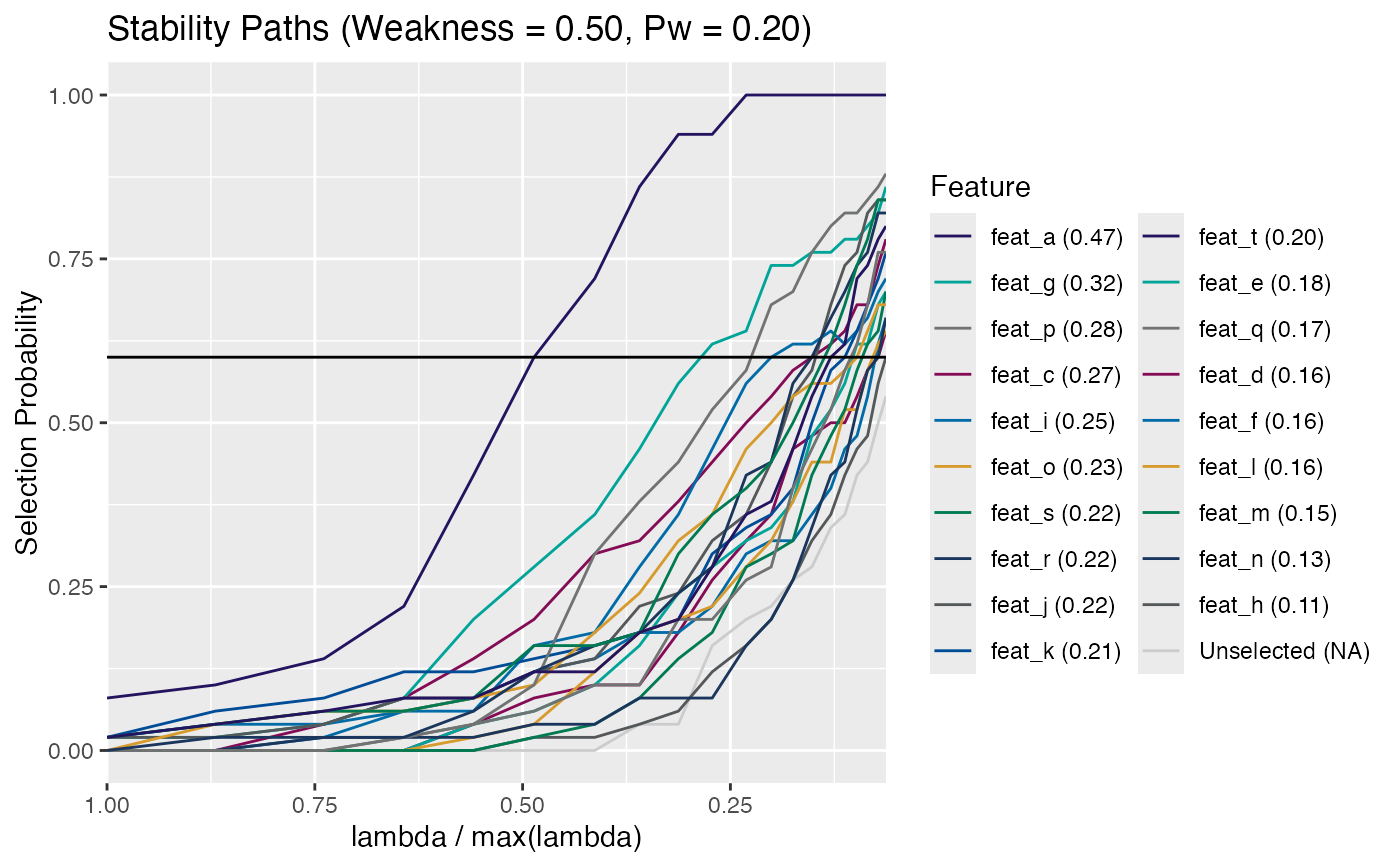
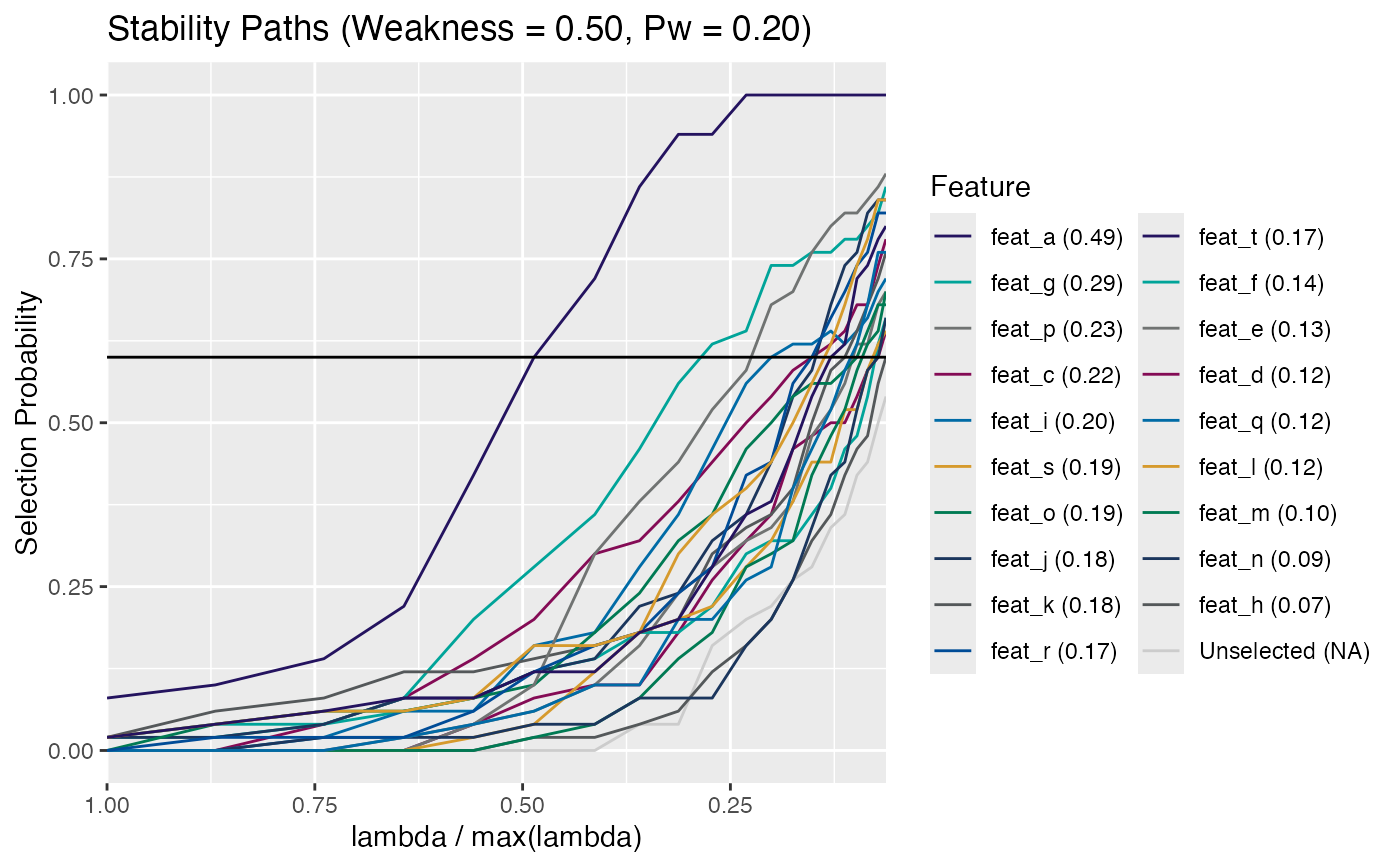
Built site for stabilityselectr@0.1.0: 2d478f8

diff --git a/reference/stability_selection.html b/reference/stability_selection.html
@@ -468,7 +468,7 @@ Methodology), <strong>72</strong>: 417-473. doi: 10.1111/j.1467-9868.2010.00740.
 <span class="r-in"><span><span class="va">y</span>           <span class="op">&lt;-</span> <span class="fu"><a href="https://rdrr.io/r/base/sample.html" class="external-link">sample</a></span><span class="op">(</span><span class="fl">1</span><span class="op">:</span><span class="fl">2</span>, <span class="va">n_samp</span>, replace <span class="op">=</span> <span class="cn">TRUE</span><span class="op">)</span></span></span>
 <span class="r-in"><span><span class="va">stab_sel</span>    <span class="op">&lt;-</span> <span class="fu">stability_selection</span><span class="op">(</span><span class="va">x</span>, <span class="va">y</span><span class="op">)</span></span></span>
 <span class="r-msg co"><span class="r-pr">#&gt;</span> <span style="color: #00BB00;">✓</span> Using kernel: <span style="color: #0000BB;">'binomial'</span> and <span style="color: #0000BB;">1</span> core (serial)</span>
-<span class="r-msg co"><span class="r-pr">#&gt;</span> <span style="color: #00BB00;">✓</span> Stablity path run time: <span style="color: #0000BB;">2.745</span>s</span>
+<span class="r-msg co"><span class="r-pr">#&gt;</span> <span style="color: #00BB00;">✓</span> Stablity path run time: <span style="color: #0000BB;">2.592</span>s</span>
 <span class="r-in"><span></span></span>
 <span class="r-in"><span><span class="co"># Cox</span></span></span>
 <span class="r-in"><span><span class="va">xcox</span> <span class="op">&lt;-</span> <span class="fu"><a href="https://stufield.github.io/wranglr/reference/feature_matrix.html" class="external-link">feature_matrix</a></span><span class="op">(</span><span class="fu">stabilityselectr</span><span class="fu">:::</span><span class="fu">log_rfu</span><span class="op">(</span><span class="va">simdata</span><span class="op">)</span><span class="op">)</span></span></span>
@@ -480,7 +480,7 @@ Methodology), <strong>72</strong>: 417-473. doi: 10.1111/j.1467-9868.2010.00740.
 <span class="r-in"><span><span class="va">ycox</span> <span class="op">&lt;-</span> <span class="fu"><a href="https://rdrr.io/r/base/data.matrix.html" class="external-link">data.matrix</a></span><span class="op">(</span><span class="fu">select</span><span class="op">(</span><span class="va">simdata</span>, <span class="va">time</span>, <span class="va">status</span><span class="op">)</span><span class="op">)</span></span></span>
 <span class="r-in"><span><span class="va">stab_sel_cox</span> <span class="op">&lt;-</span> <span class="fu">stability_selection</span><span class="op">(</span><span class="va">xcox</span>, <span class="va">ycox</span>, kernel <span class="op">=</span> <span class="st">"cox"</span>, r_seed <span class="op">=</span> <span class="fl">3</span><span class="op">)</span></span></span>
 <span class="r-msg co"><span class="r-pr">#&gt;</span> <span style="color: #00BB00;">✓</span> Using kernel: <span style="color: #0000BB;">'cox'</span> and <span style="color: #0000BB;">1</span> core (serial)</span>
-<span class="r-msg co"><span class="r-pr">#&gt;</span> <span style="color: #00BB00;">✓</span> Stablity path run time: <span style="color: #0000BB;">0.713</span>s</span>
+<span class="r-msg co"><span class="r-pr">#&gt;</span> <span style="color: #00BB00;">✓</span> Stablity path run time: <span style="color: #0000BB;">0.569</span>s</span>
 <span class="r-in"><span><span class="co"># Test for class `stab_sel`</span></span></span>
 <span class="r-in"><span><span class="fu">is_stab_sel</span><span class="op">(</span><span class="va">stab_sel</span><span class="op">)</span></span></span>
 <span class="r-out co"><span class="r-pr">#&gt;</span> [1] TRUE</span>
@@ -504,45 +504,45 @@ Methodology), <strong>72</strong>: 417-473. doi: 10.1111/j.1467-9868.2010.00740.
 <span class="r-out co"><span class="r-pr">#&gt;</span> <span style="color: #949494;"># A tibble: 20 × 4</span></span>
 <span class="r-out co"><span class="r-pr">#&gt;</span>    feature MaxSelectProb   AUC FDRbound</span>
 <span class="r-out co"><span class="r-pr">#&gt;</span>    <span style="color: #949494; font-style: italic;">&lt;chr&gt;</span>           <span style="color: #949494; font-style: italic;">&lt;dbl&gt;</span> <span style="color: #949494; font-style: italic;">&lt;dbl&gt;</span>    <span style="color: #949494; font-style: italic;">&lt;dbl&gt;</span></span>
-<span class="r-out co"><span class="r-pr">#&gt;</span> <span style="color: #BCBCBC;"> 1</span> f_xfwc          1     0.483   0.012<span style="text-decoration: underline;">5</span></span>
-<span class="r-out co"><span class="r-pr">#&gt;</span> <span style="color: #BCBCBC;"> 2</span> f_vemo          0.93  0.345   0.025 </span>
-<span class="r-out co"><span class="r-pr">#&gt;</span> <span style="color: #BCBCBC;"> 3</span> f_jpmk          0.9   0.285   0.037<span style="text-decoration: underline;">5</span></span>
-<span class="r-out co"><span class="r-pr">#&gt;</span> <span style="color: #BCBCBC;"> 4</span> f_mvky          0.89  0.279   0.05  </span>
-<span class="r-out co"><span class="r-pr">#&gt;</span> <span style="color: #BCBCBC;"> 5</span> f_qkhp          0.885 0.282   0.062<span style="text-decoration: underline;">5</span></span>
-<span class="r-out co"><span class="r-pr">#&gt;</span> <span style="color: #BCBCBC;"> 6</span> f_iefg          0.865 0.282   0.075 </span>
-<span class="r-out co"><span class="r-pr">#&gt;</span> <span style="color: #BCBCBC;"> 7</span> f_wyng          0.86  0.257   0.087<span style="text-decoration: underline;">5</span></span>
-<span class="r-out co"><span class="r-pr">#&gt;</span> <span style="color: #BCBCBC;"> 8</span> f_ytqs          0.83  0.235   0.1   </span>
-<span class="r-out co"><span class="r-pr">#&gt;</span> <span style="color: #BCBCBC;"> 9</span> f_jdip          0.83  0.254   0.113 </span>
-<span class="r-out co"><span class="r-pr">#&gt;</span> <span style="color: #BCBCBC;">10</span> f_dlxf          0.82  0.198   0.125 </span>
-<span class="r-out co"><span class="r-pr">#&gt;</span> <span style="color: #BCBCBC;">11</span> f_joxm          0.805 0.214   0.138 </span>
-<span class="r-out co"><span class="r-pr">#&gt;</span> <span style="color: #BCBCBC;">12</span> f_uzmr          0.805 0.203   0.15  </span>
-<span class="r-out co"><span class="r-pr">#&gt;</span> <span style="color: #BCBCBC;">13</span> f_pyab          0.8   0.167   0.163 </span>
-<span class="r-out co"><span class="r-pr">#&gt;</span> <span style="color: #BCBCBC;">14</span> f_jxrn          0.8   0.172   0.175 </span>
-<span class="r-out co"><span class="r-pr">#&gt;</span> <span style="color: #BCBCBC;">15</span> f_efpn          0.795 0.209   0.188 </span>
-<span class="r-out co"><span class="r-pr">#&gt;</span> <span style="color: #BCBCBC;">16</span> f_nwov          0.78  0.175   0.2   </span>
-<span class="r-out co"><span class="r-pr">#&gt;</span> <span style="color: #BCBCBC;">17</span> f_xdiy          0.765 0.229   0.213 </span>
-<span class="r-out co"><span class="r-pr">#&gt;</span> <span style="color: #BCBCBC;">18</span> f_gsac          0.755 0.182   0.225 </span>
-<span class="r-out co"><span class="r-pr">#&gt;</span> <span style="color: #BCBCBC;">19</span> f_fbxn          0.755 0.185   0.238 </span>
-<span class="r-out co"><span class="r-pr">#&gt;</span> <span style="color: #BCBCBC;">20</span> f_lgtk          0.735 0.168   0.25  </span>
+<span class="r-out co"><span class="r-pr">#&gt;</span> <span style="color: #BCBCBC;"> 1</span> f_xfwc          1     0.585   0.012<span style="text-decoration: underline;">5</span></span>
+<span class="r-out co"><span class="r-pr">#&gt;</span> <span style="color: #BCBCBC;"> 2</span> f_vemo          0.93  0.297   0.025 </span>
+<span class="r-out co"><span class="r-pr">#&gt;</span> <span style="color: #BCBCBC;"> 3</span> f_jpmk          0.9   0.259   0.037<span style="text-decoration: underline;">5</span></span>
+<span class="r-out co"><span class="r-pr">#&gt;</span> <span style="color: #BCBCBC;"> 4</span> f_mvky          0.89  0.264   0.05  </span>
+<span class="r-out co"><span class="r-pr">#&gt;</span> <span style="color: #BCBCBC;"> 5</span> f_qkhp          0.885 0.226   0.062<span style="text-decoration: underline;">5</span></span>
+<span class="r-out co"><span class="r-pr">#&gt;</span> <span style="color: #BCBCBC;"> 6</span> f_iefg          0.865 0.232   0.075 </span>
+<span class="r-out co"><span class="r-pr">#&gt;</span> <span style="color: #BCBCBC;"> 7</span> f_wyng          0.86  0.218   0.087<span style="text-decoration: underline;">5</span></span>
+<span class="r-out co"><span class="r-pr">#&gt;</span> <span style="color: #BCBCBC;"> 8</span> f_ytqs          0.83  0.203   0.1   </span>
+<span class="r-out co"><span class="r-pr">#&gt;</span> <span style="color: #BCBCBC;"> 9</span> f_jdip          0.83  0.207   0.113 </span>
+<span class="r-out co"><span class="r-pr">#&gt;</span> <span style="color: #BCBCBC;">10</span> f_dlxf          0.82  0.161   0.125 </span>
+<span class="r-out co"><span class="r-pr">#&gt;</span> <span style="color: #BCBCBC;">11</span> f_joxm          0.805 0.173   0.138 </span>
+<span class="r-out co"><span class="r-pr">#&gt;</span> <span style="color: #BCBCBC;">12</span> f_uzmr          0.805 0.153   0.15  </span>
+<span class="r-out co"><span class="r-pr">#&gt;</span> <span style="color: #BCBCBC;">13</span> f_pyab          0.8   0.117   0.163 </span>
+<span class="r-out co"><span class="r-pr">#&gt;</span> <span style="color: #BCBCBC;">14</span> f_jxrn          0.8   0.122   0.175 </span>
+<span class="r-out co"><span class="r-pr">#&gt;</span> <span style="color: #BCBCBC;">15</span> f_efpn          0.795 0.160   0.188 </span>
+<span class="r-out co"><span class="r-pr">#&gt;</span> <span style="color: #BCBCBC;">16</span> f_nwov          0.78  0.126   0.2   </span>
+<span class="r-out co"><span class="r-pr">#&gt;</span> <span style="color: #BCBCBC;">17</span> f_xdiy          0.765 0.186   0.213 </span>
+<span class="r-out co"><span class="r-pr">#&gt;</span> <span style="color: #BCBCBC;">18</span> f_gsac          0.755 0.134   0.225 </span>
+<span class="r-out co"><span class="r-pr">#&gt;</span> <span style="color: #BCBCBC;">19</span> f_fbxn          0.755 0.138   0.238 </span>
+<span class="r-out co"><span class="r-pr">#&gt;</span> <span style="color: #BCBCBC;">20</span> f_lgtk          0.735 0.122   0.25  </span>
 <span class="r-in"><span></span></span>
 <span class="r-in"><span><span class="fu"><a href="https://rdrr.io/r/base/summary.html" class="external-link">summary</a></span><span class="op">(</span><span class="va">stab_sel</span>, thresh <span class="op">=</span> <span class="fl">0.8</span>, add_features <span class="op">=</span> <span class="st">"feat_c"</span><span class="op">)</span>   <span class="co"># force feat_c into table</span></span></span>
 <span class="r-out co"><span class="r-pr">#&gt;</span> <span style="color: #949494;"># A tibble: 14 × 4</span></span>
 <span class="r-out co"><span class="r-pr">#&gt;</span>    feature MaxSelectProb   AUC FDRbound</span>
 <span class="r-out co"><span class="r-pr">#&gt;</span>    <span style="color: #949494; font-style: italic;">&lt;chr&gt;</span>           <span style="color: #949494; font-style: italic;">&lt;dbl&gt;</span> <span style="color: #949494; font-style: italic;">&lt;dbl&gt;</span>    <span style="color: #949494; font-style: italic;">&lt;dbl&gt;</span></span>
-<span class="r-out co"><span class="r-pr">#&gt;</span> <span style="color: #BCBCBC;"> 1</span> f_xfwc          1     0.483  0.004<span style="text-decoration: underline;">17</span></span>
-<span class="r-out co"><span class="r-pr">#&gt;</span> <span style="color: #BCBCBC;"> 2</span> f_vemo          0.93  0.345  0.008<span style="text-decoration: underline;">33</span></span>
-<span class="r-out co"><span class="r-pr">#&gt;</span> <span style="color: #BCBCBC;"> 3</span> f_jpmk          0.9   0.285  0.012<span style="text-decoration: underline;">5</span> </span>
-<span class="r-out co"><span class="r-pr">#&gt;</span> <span style="color: #BCBCBC;"> 4</span> f_mvky          0.89  0.279  0.016<span style="text-decoration: underline;">7</span> </span>
-<span class="r-out co"><span class="r-pr">#&gt;</span> <span style="color: #BCBCBC;"> 5</span> f_qkhp          0.885 0.282  0.020<span style="text-decoration: underline;">8</span> </span>
-<span class="r-out co"><span class="r-pr">#&gt;</span> <span style="color: #BCBCBC;"> 6</span> f_iefg          0.865 0.282  0.025  </span>
-<span class="r-out co"><span class="r-pr">#&gt;</span> <span style="color: #BCBCBC;"> 7</span> f_wyng          0.86  0.257  0.029<span style="text-decoration: underline;">2</span> </span>
-<span class="r-out co"><span class="r-pr">#&gt;</span> <span style="color: #BCBCBC;"> 8</span> f_ytqs          0.83  0.235  0.033<span style="text-decoration: underline;">3</span> </span>
-<span class="r-out co"><span class="r-pr">#&gt;</span> <span style="color: #BCBCBC;"> 9</span> f_jdip          0.83  0.254  0.037<span style="text-decoration: underline;">5</span> </span>
-<span class="r-out co"><span class="r-pr">#&gt;</span> <span style="color: #BCBCBC;">10</span> f_dlxf          0.82  0.198  0.041<span style="text-decoration: underline;">7</span> </span>
-<span class="r-out co"><span class="r-pr">#&gt;</span> <span style="color: #BCBCBC;">11</span> f_joxm          0.805 0.214  0.045<span style="text-decoration: underline;">8</span> </span>
-<span class="r-out co"><span class="r-pr">#&gt;</span> <span style="color: #BCBCBC;">12</span> f_uzmr          0.805 0.203  0.05   </span>
-<span class="r-out co"><span class="r-pr">#&gt;</span> <span style="color: #BCBCBC;">13</span> f_pyab          0.8   0.167  0.054<span style="text-decoration: underline;">2</span> </span>
-<span class="r-out co"><span class="r-pr">#&gt;</span> <span style="color: #BCBCBC;">14</span> f_jxrn          0.8   0.172  0.058<span style="text-decoration: underline;">3</span> </span>
+<span class="r-out co"><span class="r-pr">#&gt;</span> <span style="color: #BCBCBC;"> 1</span> f_xfwc          1     0.585  0.004<span style="text-decoration: underline;">17</span></span>
+<span class="r-out co"><span class="r-pr">#&gt;</span> <span style="color: #BCBCBC;"> 2</span> f_vemo          0.93  0.297  0.008<span style="text-decoration: underline;">33</span></span>
+<span class="r-out co"><span class="r-pr">#&gt;</span> <span style="color: #BCBCBC;"> 3</span> f_jpmk          0.9   0.259  0.012<span style="text-decoration: underline;">5</span> </span>
+<span class="r-out co"><span class="r-pr">#&gt;</span> <span style="color: #BCBCBC;"> 4</span> f_mvky          0.89  0.264  0.016<span style="text-decoration: underline;">7</span> </span>
+<span class="r-out co"><span class="r-pr">#&gt;</span> <span style="color: #BCBCBC;"> 5</span> f_qkhp          0.885 0.226  0.020<span style="text-decoration: underline;">8</span> </span>
+<span class="r-out co"><span class="r-pr">#&gt;</span> <span style="color: #BCBCBC;"> 6</span> f_iefg          0.865 0.232  0.025  </span>
+<span class="r-out co"><span class="r-pr">#&gt;</span> <span style="color: #BCBCBC;"> 7</span> f_wyng          0.86  0.218  0.029<span style="text-decoration: underline;">2</span> </span>
+<span class="r-out co"><span class="r-pr">#&gt;</span> <span style="color: #BCBCBC;"> 8</span> f_ytqs          0.83  0.203  0.033<span style="text-decoration: underline;">3</span> </span>
+<span class="r-out co"><span class="r-pr">#&gt;</span> <span style="color: #BCBCBC;"> 9</span> f_jdip          0.83  0.207  0.037<span style="text-decoration: underline;">5</span> </span>
+<span class="r-out co"><span class="r-pr">#&gt;</span> <span style="color: #BCBCBC;">10</span> f_dlxf          0.82  0.161  0.041<span style="text-decoration: underline;">7</span> </span>
+<span class="r-out co"><span class="r-pr">#&gt;</span> <span style="color: #BCBCBC;">11</span> f_joxm          0.805 0.173  0.045<span style="text-decoration: underline;">8</span> </span>
+<span class="r-out co"><span class="r-pr">#&gt;</span> <span style="color: #BCBCBC;">12</span> f_uzmr          0.805 0.153  0.05   </span>
+<span class="r-out co"><span class="r-pr">#&gt;</span> <span style="color: #BCBCBC;">13</span> f_pyab          0.8   0.117  0.054<span style="text-decoration: underline;">2</span> </span>
+<span class="r-out co"><span class="r-pr">#&gt;</span> <span style="color: #BCBCBC;">14</span> f_jxrn          0.8   0.122  0.058<span style="text-decoration: underline;">3</span> </span>
 <span class="r-in"><span></span></span>
 <span class="r-in"><span><span class="co"># S3 plot method</span></span></span>
 <span class="r-in"><span><span class="fu"><a href="https://rdrr.io/r/graphics/plot.default.html" class="external-link">plot</a></span><span class="op">(</span><span class="va">stab_sel</span>, thresh <span class="op">=</span> <span class="fl">0.8</span><span class="op">)</span></span></span>

diff --git a/reference/calc_emp_fdr.html b/reference/calc_emp_fdr.html
@@ -165,8 +165,8 @@ of the <code>n</code> class scrambled permutations, i.e. the null.</p></li>
 <span class="r-in"><span><span class="va">ss</span> <span class="op">&lt;-</span> <span class="fu"><a href="stability_selection.html">stability_selection</a></span><span class="op">(</span><span class="va">x</span>, <span class="va">y</span>, n_iter <span class="op">=</span> <span class="fl">25</span>, n_perm <span class="op">=</span> <span class="fl">50</span>,</span></span>
 <span class="r-in"><span>                          r_seed <span class="op">=</span> <span class="fl">101</span>, parallel <span class="op">=</span> <span class="cn">TRUE</span><span class="op">)</span></span></span>
 <span class="r-msg co"><span class="r-pr">#&gt;</span> <span style="color: #00BB00;">✓</span> Using kernel: <span style="color: #0000BB;">'binomial'</span> and <span style="color: #0000BB;">1</span> core (serial)</span>
-<span class="r-msg co"><span class="r-pr">#&gt;</span> <span style="color: #00BB00;">✓</span> Stablity path run time: <span style="color: #0000BB;">0.116</span>s</span>
-<span class="r-msg co"><span class="r-pr">#&gt;</span> <span style="color: #00BB00;">✓</span> Perm path run time: <span style="color: #0000BB;">4.347</span>s</span>
+<span class="r-msg co"><span class="r-pr">#&gt;</span> <span style="color: #00BB00;">✓</span> Stablity path run time: <span style="color: #0000BB;">0.087</span>s</span>
+<span class="r-msg co"><span class="r-pr">#&gt;</span> <span style="color: #00BB00;">✓</span> Perm path run time: <span style="color: #0000BB;">2.723</span>s</span>
 <span class="r-in"><span></span></span>
 <span class="r-in"><span><span class="fu">calc_emp_fdr</span><span class="op">(</span><span class="va">ss</span>, <span class="fu"><a href="https://rdrr.io/r/base/seq.html" class="external-link">seq</a></span><span class="op">(</span><span class="fl">0.5</span>, <span class="fl">0.9</span>, <span class="fl">0.1</span><span class="op">)</span><span class="op">)</span></span></span>
 <span class="r-out co"><span class="r-pr">#&gt;</span> thresh_0.5 thresh_0.6 thresh_0.7 thresh_0.8 thresh_0.9 </span>

diff --git a/articles/stabilityselectr.html b/articles/stabilityselectr.html
@@ -106,7 +106,7 @@ below.</p>
 <span><span class="va">y</span>           <span class="op">&lt;-</span> <span class="fu"><a href="https://rdrr.io/r/base/sample.html" class="external-link">sample</a></span><span class="op">(</span><span class="fl">1</span><span class="op">:</span><span class="fl">2</span>, <span class="va">n_samples</span>, replace <span class="op">=</span> <span class="cn">TRUE</span><span class="op">)</span></span>
 <span><span class="va">stab_sel</span>    <span class="op">&lt;-</span> <span class="fu"><a href="../reference/stability_selection.html">stability_selection</a></span><span class="op">(</span><span class="va">x</span>, <span class="va">y</span>, <span class="st">"binomial"</span>, n_iter <span class="op">=</span> <span class="fl">500L</span><span class="op">)</span></span>
 <span><span class="co">#&gt; ✓ Using kernel: 'binomial' and 1 core (serial)</span></span>
-<span><span class="co">#&gt; ✓ Stablity path run time: 2.368s</span></span>
+<span><span class="co">#&gt; ✓ Stablity path run time: 1.259s</span></span>
 <span><span class="fu"><a href="../reference/stability_selection.html">is_stab_sel</a></span><span class="op">(</span><span class="va">stab_sel</span><span class="op">)</span></span>
 <span><span class="co">#&gt; [1] TRUE</span></span>
 <span><span class="va">stab_sel</span></span>

diff --git a/reference/get_stable_features.html b/reference/get_stable_features.html
@@ -119,7 +119,7 @@ user a control mechanism for the output behavior.</p>
 <span class="r-in"><span></span></span>
 <span class="r-in"><span><span class="va">stab_sel</span> <span class="op">&lt;-</span> <span class="fu"><a href="stability_selection.html">stability_selection</a></span><span class="op">(</span><span class="va">x</span>, <span class="va">y</span>, r_seed <span class="op">=</span> <span class="fl">101</span><span class="op">)</span></span></span>
 <span class="r-msg co"><span class="r-pr">#&gt;</span> <span style="color: #00BB00;">✓</span> Using kernel: <span style="color: #0000BB;">'binomial'</span> and <span style="color: #0000BB;">1</span> core (serial)</span>
-<span class="r-msg co"><span class="r-pr">#&gt;</span> <span style="color: #00BB00;">✓</span> Stablity path run time: <span style="color: #0000BB;">0.514</span>s</span>
+<span class="r-msg co"><span class="r-pr">#&gt;</span> <span style="color: #00BB00;">✓</span> Stablity path run time: <span style="color: #0000BB;">0.517</span>s</span>
 <span class="r-in"><span></span></span>
 <span class="r-in"><span><span class="co"># Stable features at `thresh =`</span></span></span>
 <span class="r-in"><span><span class="fu">get_stable_features</span><span class="op">(</span><span class="va">stab_sel</span>, <span class="fl">0.75</span><span class="op">)</span></span></span>

diff --git a/reference/stability_selection.md b/reference/stability_selection.md
@@ -406,7 +406,7 @@ colnames(x) <- replicate(n_feat, paste0("f_", fn()))
 y           <- sample(1:2, n_samp, replace = TRUE)
 stab_sel    <- stability_selection(x, y)
 #> ✓ Using kernel: 'binomial' and 1 core (serial)
-#> ✓ Stablity path run time: 2.745s
+#> ✓ Stablity path run time: 2.592s
 
 # Cox
 xcox <- feature_matrix(stabilityselectr:::log_rfu(simdata))
@@ -418,7 +418,7 @@ xcox <- feature_matrix(stabilityselectr:::log_rfu(simdata))
 ycox <- data.matrix(select(simdata, time, status))
 stab_sel_cox <- stability_selection(xcox, ycox, kernel = "cox", r_seed = 3)
 #> ✓ Using kernel: 'cox' and 1 core (serial)
-#> ✓ Stablity path run time: 0.713s
+#> ✓ Stablity path run time: 0.569s
 # Test for class `stab_sel`
 is_stab_sel(stab_sel)
 #> [1] TRUE
@@ -442,45 +442,45 @@ summary(stab_sel, thresh = 0.6)
 #> # A tibble: 20 × 4
 #>    feature MaxSelectProb   AUC FDRbound
 #>    <chr>           <dbl> <dbl>    <dbl>
-#>  1 f_xfwc          1     0.483   0.0125
-#>  2 f_vemo          0.93  0.345   0.025 
-#>  3 f_jpmk          0.9   0.285   0.0375
-#>  4 f_mvky          0.89  0.279   0.05  
-#>  5 f_qkhp          0.885 0.282   0.0625
-#>  6 f_iefg          0.865 0.282   0.075 
-#>  7 f_wyng          0.86  0.257   0.0875
-#>  8 f_ytqs          0.83  0.235   0.1   
-#>  9 f_jdip          0.83  0.254   0.113 
-#> 10 f_dlxf          0.82  0.198   0.125 
-#> 11 f_joxm          0.805 0.214   0.138 
-#> 12 f_uzmr          0.805 0.203   0.15  
-#> 13 f_pyab          0.8   0.167   0.163 
-#> 14 f_jxrn          0.8   0.172   0.175 
-#> 15 f_efpn          0.795 0.209   0.188 
-#> 16 f_nwov          0.78  0.175   0.2   
-#> 17 f_xdiy          0.765 0.229   0.213 
-#> 18 f_gsac          0.755 0.182   0.225 
-#> 19 f_fbxn          0.755 0.185   0.238 
-#> 20 f_lgtk          0.735 0.168   0.25  
+#>  1 f_xfwc          1     0.585   0.0125
+#>  2 f_vemo          0.93  0.297   0.025 
+#>  3 f_jpmk          0.9   0.259   0.0375
+#>  4 f_mvky          0.89  0.264   0.05  
+#>  5 f_qkhp          0.885 0.226   0.0625
+#>  6 f_iefg          0.865 0.232   0.075 
+#>  7 f_wyng          0.86  0.218   0.0875
+#>  8 f_ytqs          0.83  0.203   0.1   
+#>  9 f_jdip          0.83  0.207   0.113 
+#> 10 f_dlxf          0.82  0.161   0.125 
+#> 11 f_joxm          0.805 0.173   0.138 
+#> 12 f_uzmr          0.805 0.153   0.15  
+#> 13 f_pyab          0.8   0.117   0.163 
+#> 14 f_jxrn          0.8   0.122   0.175 
+#> 15 f_efpn          0.795 0.160   0.188 
+#> 16 f_nwov          0.78  0.126   0.2   
+#> 17 f_xdiy          0.765 0.186   0.213 
+#> 18 f_gsac          0.755 0.134   0.225 
+#> 19 f_fbxn          0.755 0.138   0.238 
+#> 20 f_lgtk          0.735 0.122   0.25  
 
 summary(stab_sel, thresh = 0.8, add_features = "feat_c")   # force feat_c into table
 #> # A tibble: 14 × 4
 #>    feature MaxSelectProb   AUC FDRbound
 #>    <chr>           <dbl> <dbl>    <dbl>
-#>  1 f_xfwc          1     0.483  0.00417
-#>  2 f_vemo          0.93  0.345  0.00833
-#>  3 f_jpmk          0.9   0.285  0.0125 
-#>  4 f_mvky          0.89  0.279  0.0167 
-#>  5 f_qkhp          0.885 0.282  0.0208 
-#>  6 f_iefg          0.865 0.282  0.025  
-#>  7 f_wyng          0.86  0.257  0.0292 
-#>  8 f_ytqs          0.83  0.235  0.0333 
-#>  9 f_jdip          0.83  0.254  0.0375 
-#> 10 f_dlxf          0.82  0.198  0.0417 
-#> 11 f_joxm          0.805 0.214  0.0458 
-#> 12 f_uzmr          0.805 0.203  0.05   
-#> 13 f_pyab          0.8   0.167  0.0542 
-#> 14 f_jxrn          0.8   0.172  0.0583 
+#>  1 f_xfwc          1     0.585  0.00417
+#>  2 f_vemo          0.93  0.297  0.00833
+#>  3 f_jpmk          0.9   0.259  0.0125 
+#>  4 f_mvky          0.89  0.264  0.0167 
+#>  5 f_qkhp          0.885 0.226  0.0208 
+#>  6 f_iefg          0.865 0.232  0.025  
+#>  7 f_wyng          0.86  0.218  0.0292 
+#>  8 f_ytqs          0.83  0.203  0.0333 
+#>  9 f_jdip          0.83  0.207  0.0375 
+#> 10 f_dlxf          0.82  0.161  0.0417 
+#> 11 f_joxm          0.805 0.173  0.0458 
+#> 12 f_uzmr          0.805 0.153  0.05   
+#> 13 f_pyab          0.8   0.117  0.0542 
+#> 14 f_jxrn          0.8   0.122  0.0583 
 
 # S3 plot method
 plot(stab_sel, thresh = 0.8)

diff --git a/reference/calc_emp_fdr.md b/reference/calc_emp_fdr.md
@@ -123,8 +123,8 @@ y           <- sample(1:2, n_samples, replace = TRUE)
 ss <- stability_selection(x, y, n_iter = 25, n_perm = 50,
                           r_seed = 101, parallel = TRUE)
 #> ✓ Using kernel: 'binomial' and 1 core (serial)
-#> ✓ Stablity path run time: 0.116s
-#> ✓ Perm path run time: 4.347s
+#> ✓ Stablity path run time: 0.087s
+#> ✓ Perm path run time: 2.723s
 
 calc_emp_fdr(ss, seq(0.5, 0.9, 0.1))
 #> thresh_0.5 thresh_0.6 thresh_0.7 thresh_0.8 thresh_0.9 

diff --git a/articles/stabilityselectr.md b/articles/stabilityselectr.md
@@ -39,7 +39,7 @@ colnames(x) <- paste0("feat", "_", head(letters, n_feat))
 y           <- sample(1:2, n_samples, replace = TRUE)
 stab_sel    <- stability_selection(x, y, "binomial", n_iter = 500L)
 #> ✓ Using kernel: 'binomial' and 1 core (serial)
-#> ✓ Stablity path run time: 2.368s
+#> ✓ Stablity path run time: 1.259s
 is_stab_sel(stab_sel)
 #> [1] TRUE
 stab_sel

diff --git a/reference/get_stable_features.md b/reference/get_stable_features.md
@@ -75,7 +75,7 @@ y           <- sample(1:2, n_samples, replace = TRUE)
 
 stab_sel <- stability_selection(x, y, r_seed = 101)
 #> ✓ Using kernel: 'binomial' and 1 core (serial)
-#> ✓ Stablity path run time: 0.514s
+#> ✓ Stablity path run time: 0.517s
 
 # Stable features at `thresh =`
 get_stable_features(stab_sel, 0.75)